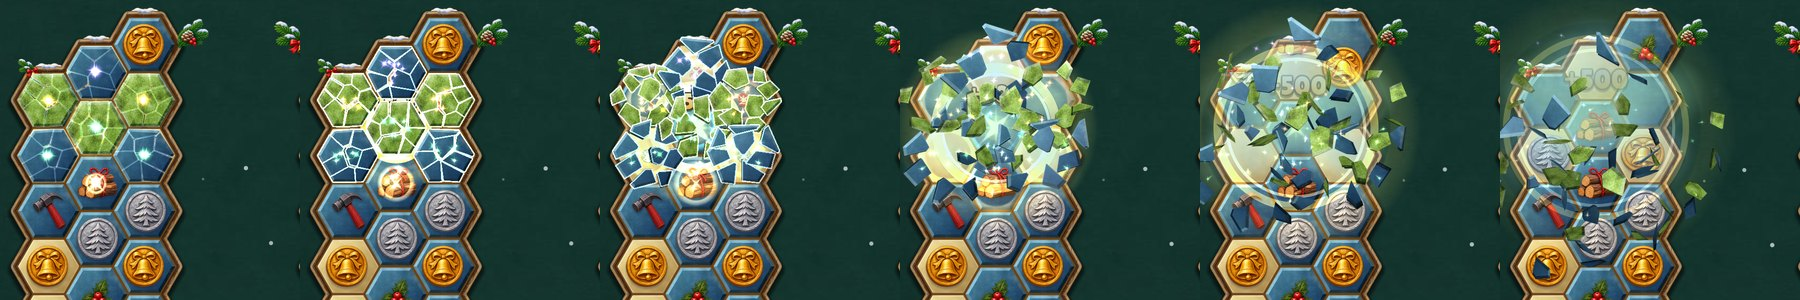
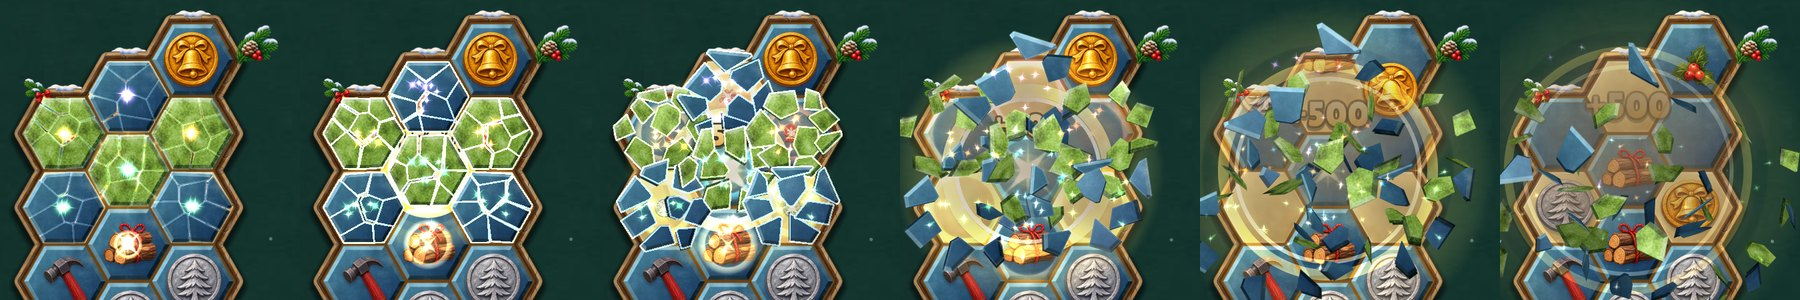
Use earth-coloured dust for every shattered layer
Breaking tablets and ice threw up green, blue or pale cyan mist. They now
all raise one earthy dust colour, S.DUST in engine/match3_shatter.lua.

diff --git a/games/relic-rush/docs/asset-catalogue.md b/games/relic-rush/docs/asset-catalogue.md
@@ -590,7 +590,7 @@ pause, guide and the island.
 | CLEAR | Existing artwork expands briefly, then shrinks and fades; a blocked hit keeps the piece |
 | FALL | Existing gem artwork follows engine gravity, then squashes and rebounds briefly on contact with its resting slot (`engine/match3.lua`). Reduced motion omits the bounce. Capture with `build/test/all --suite=relic-rush 'reel relic-rush-top-edge-refill'`. |
 | Last tablets | Cradle of Rome 2's original `Star_02_16.png` and `Star_16.png` are packed unchanged as `fx-tablet-glow` and `fx-tablet-spark` in `data/match3.png`. `engine/match3_vfx.lua` sweeps them clockwise along the bevel over a soft blue wash. One to three tablets receive the first pulse with the move suggestion. The cue repeats every nine seconds until board input. Reduce Motion hides it. Reproduce the phone captures with `build/test/all --suite=relic-rush 'reel relic-rush-tablet-hints'`. [Source and extraction](../../../docs/cradle-of-rome-reference/README.md#last-puzzle-tile-glow). |
-| Layer break | A hit that removes ice, a double tablet's green face or a blue tablet breaks that layer's own art (`tile-ice`, `tile-tablet-double`, `tile-tablet-single`, or the `oil-material` hex sample on undressed levels) into about eight Voronoi shards (`engine/match3_shatter.lua`). Cracks glow, then shards burst, tumble with a darker side face and fall over about 0.8 s, above a mist puff in the layer colour. Procedural cut-outs of existing art, no new bitmaps or states; Reduce Motion hides it. Capture with `build/test/all --suite=relic-rush 'reel fx-shatter'` (`--fx shatter`). [Reviewed frames](screenshots/review/shatter/fx-shatter-480x900.jpg). |
+| Layer break | A hit that removes ice, a double tablet's green face or a blue tablet breaks that layer's own art (`tile-ice`, `tile-tablet-double`, `tile-tablet-single`, or the `oil-material` hex sample on undressed levels) into about eight Voronoi shards (`engine/match3_shatter.lua`). Cracks glow, then shards burst, tumble with a darker side face and fall over about 0.8 s, above a puff of earth-coloured dust. Procedural cut-outs of existing art, no new bitmaps or states; Reduce Motion hides it. Capture with `build/test/all --suite=relic-rush 'reel fx-shatter'` (`--fx shatter`). [Reviewed frames](screenshots/review/shatter/fx-shatter-480x900.jpg). |
 | Special birth | Existing authored special plus transient halo/sparks |
 | Attack | Procedural travelling rays, bomb rings, prism links and combo effects |
 | Collection | Removed resources fly to their matching wallet capsule with a trail; story pieces do not earn resources |

diff --git a/games/christmas-market/docs/asset-catalogue.md b/games/christmas-market/docs/asset-catalogue.md
@@ -392,8 +392,8 @@ layers, and the three tools use their five authored interaction states.
 [Regular, chained and partly lit boards](screenshots/review/spruce-palette/README.md).
 
 A pane, a double pane's green face or ice shatters when a hit removes it.
-The engine cuts that layer's existing tile into shards with mist in the
-layer's colour (`engine/match3_shatter.lua`). This is a procedural cut-out,
+The engine cuts that layer's existing tile into shards over a puff of
+earth-coloured dust (`engine/match3_shatter.lua`). This is a procedural cut-out,
 with no new bitmaps or states, and Reduce Motion hides it. Capture with
 `build/test/all --suite=christmas-market 'reel fx-shatter'`.
 [Reviewed frames](screenshots/review/shatter/fx-shatter-480x900.jpg).

diff --git a/docs/MATCH3_ENGINE.md b/docs/MATCH3_ENGINE.md
@@ -219,7 +219,7 @@ At bind it makes eight Voronoi fractures of the unit hex; each break picks one
 and one of the hex's twelve symmetries. The pieces are cut from the layer's
 texture with `gfx.image_poly`. Cracks glow for 0.07 s, then the shards burst outwards,
 spin and tumble (a darker side face shows their thickness), fall under gravity
-and fade over about 0.8 s above a puff of mist in the layer's colour. No
+and fade over about 0.8 s above a puff of earth-coloured dust (`S.DUST`). No
 art is baked, so new tile art and packs shatter unchanged.
 `E.layer_art` names the art `E.ground` paints, and a game's `R.board_floor()`
 returns the floor dress both use. Reduce Motion shows nothing. Review it
